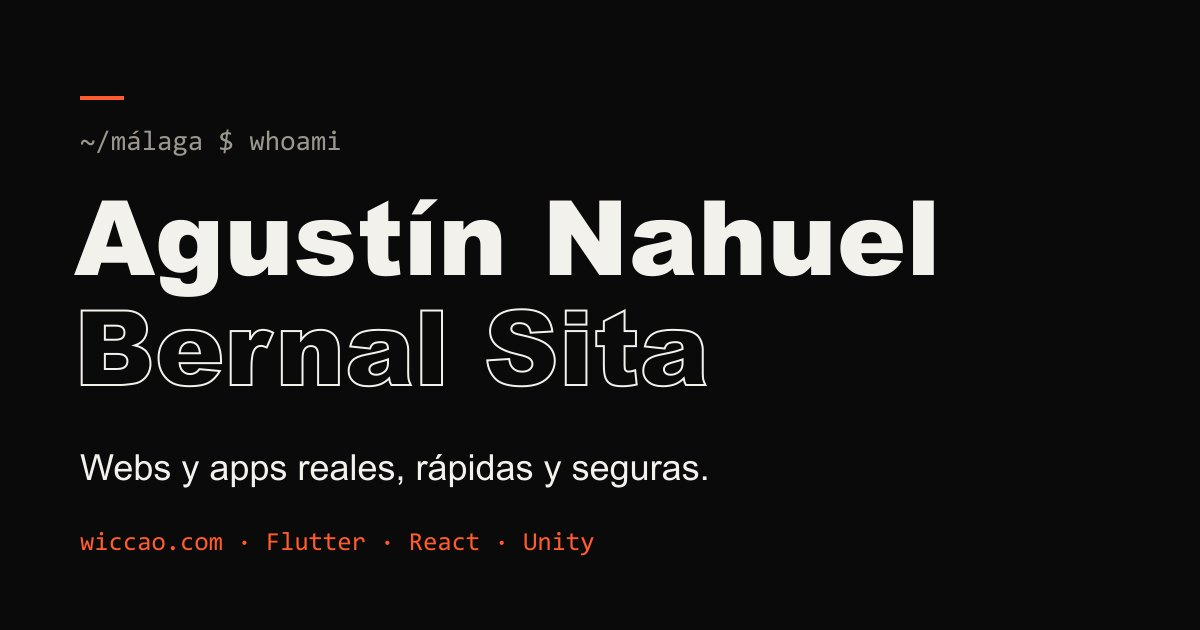
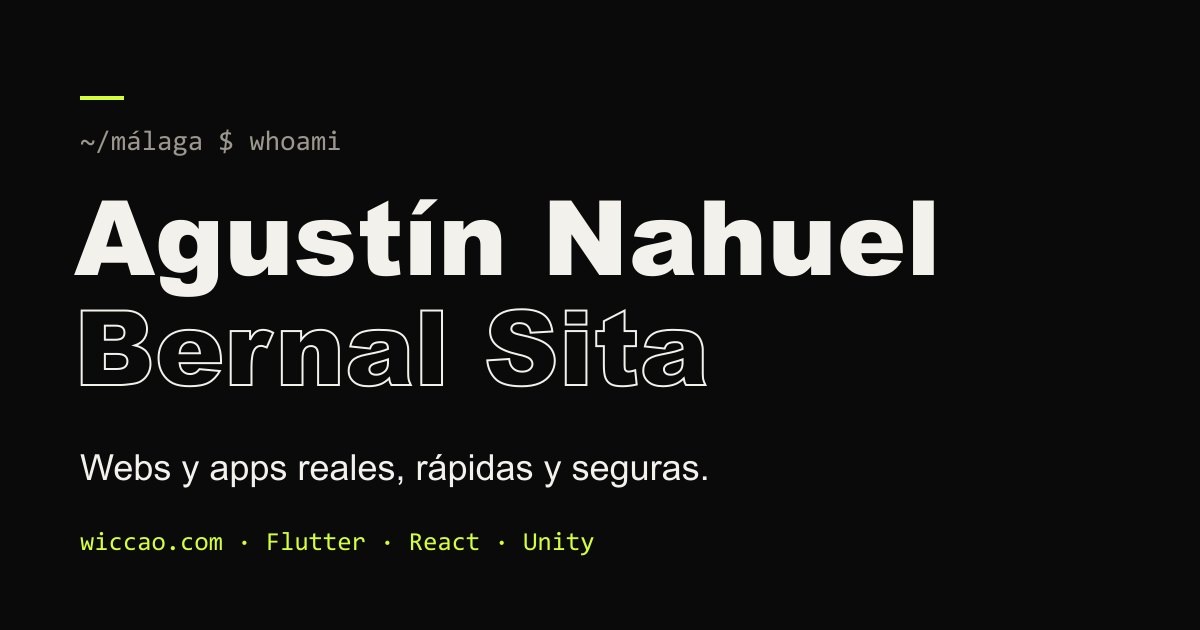
Acento verde lima, pie sin «hecha a mano» y Azure / Microsoft 365
- El naranja pasa a verde lima (#d4ff3a), también en og-image y favicon;
  los ✓ y «Disponible» usan el mismo color.
- El pie solo dice nombre y ciudad.
- Herramientas: nueva fila «Nube y equipo» con Microsoft Azure,
  Cloudflare, Microsoft 365 y Teams; Azure en la cinta.

diff --git a/src/styles.css b/src/styles.css
@@ -28,9 +28,9 @@
   --muted: #9b978e;
   --line: #242424;
   --line-2: #363636;
-  --accent: #ff5b2e;
+  --accent: #d4ff3a;
   --accent-ink: #0a0a0a;
-  --ok: #4cc27f;
+  --ok: var(--accent);
   --wrap: 1180px;
   --gutter: clamp(16px, 4vw, 40px);
   --ease: cubic-bezier(0.2, 0.8, 0.2, 1);
@@ -100,7 +100,7 @@ em { font-style: normal; color: var(--accent); }
   -webkit-mask-image: radial-gradient(260px circle at var(--mx, 50%) var(--my, 30%), #000, transparent 70%);
 }
 .hero-wrap.lit::after { opacity: 1; }
-.hero-wrap.lit { background: radial-gradient(420px circle at var(--mx) var(--my), rgba(255, 91, 46, 0.07), transparent 65%); }
+.hero-wrap.lit { background: radial-gradient(420px circle at var(--mx) var(--my), rgba(212, 255, 58, 0.06), transparent 65%); }
 
 .hero { max-width: var(--wrap); margin-inline: auto; padding: clamp(40px, 7vw, 96px) var(--gutter) clamp(48px, 7vw, 88px); container-type: inline-size; }
 .prompt { color: var(--muted); margin-bottom: clamp(18px, 3vw, 28px); text-transform: none; font-size: 0.9rem; letter-spacing: 0.02em; min-height: 1.5em; }
@@ -168,7 +168,7 @@ a:hover > .arrow { transform: translate(2px, -2px); }
 .f-head p { color: color-mix(in srgb, var(--ink) 86%, transparent); }
 .f-head .btn { margin-top: 8px; }
 
-.browser { margin: 0; border: 1px solid var(--line-2); border-radius: 10px; overflow: hidden; background: #000; box-shadow: 0 40px 100px -40px rgba(255, 91, 46, 0.25); }
+.browser { margin: 0; border: 1px solid var(--line-2); border-radius: 10px; overflow: hidden; background: #000; box-shadow: 0 40px 100px -40px rgba(212, 255, 58, 0.18); }
 .browser-bar, .app-bar { display: flex; align-items: center; gap: 6px; padding: 10px 12px; background: #1c1c1f; color: #8b8b93; font: 500 0.72rem "Plex Mono", ui-monospace, monospace; }
 .browser-bar i, .app-bar i { width: 9px; height: 9px; border-radius: 50%; background: #3a3a40; }
 .browser-bar span, .app-bar span { margin-left: 10px; }
@@ -271,7 +271,7 @@ a:hover > .arrow { transform: translate(2px, -2px); }
 .next { background: var(--ink); color: var(--bg); padding: clamp(22px, 3vw, 32px); }
 .next h3 { font-size: 1.6rem; margin-bottom: 14px; }
 .next p { color: color-mix(in srgb, var(--bg) 78%, transparent); }
-.next-t { color: #c23a12 !important; margin-top: 20px; }
+.next-t { color: #4a5d00 !important; margin-top: 20px; }
 .next ul { margin: 0; padding-left: 1.1em; }
 .next li { margin-bottom: 4px; }
 

diff --git a/README.md b/README.md
@@ -1,6 +1,6 @@
 # Agustín Bernal — Web personal
 
-Portfolio / CV en web, en español (`/`) e inglés (`/en/`). HTML y CSS a mano, sin framework:
+Portfolio / CV en web, en español (`/`) e inglés (`/en/`). HTML y CSS sin framework:
 `build.mjs` lee los textos de `src/content.mjs` y genera la web estática en `dist/`.
 
 ## Correr en local
